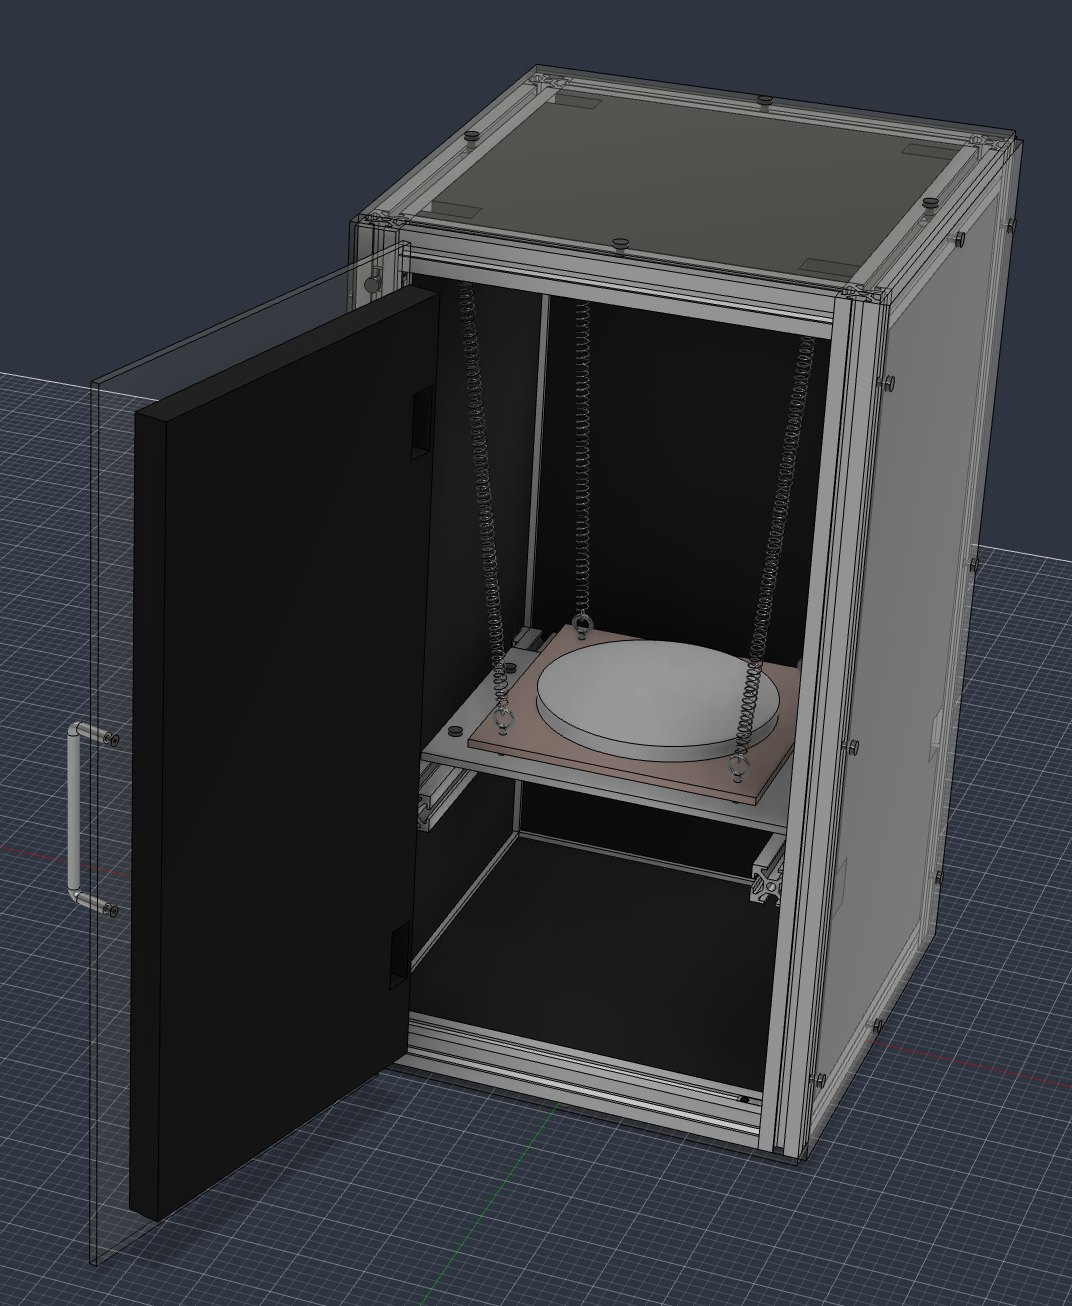
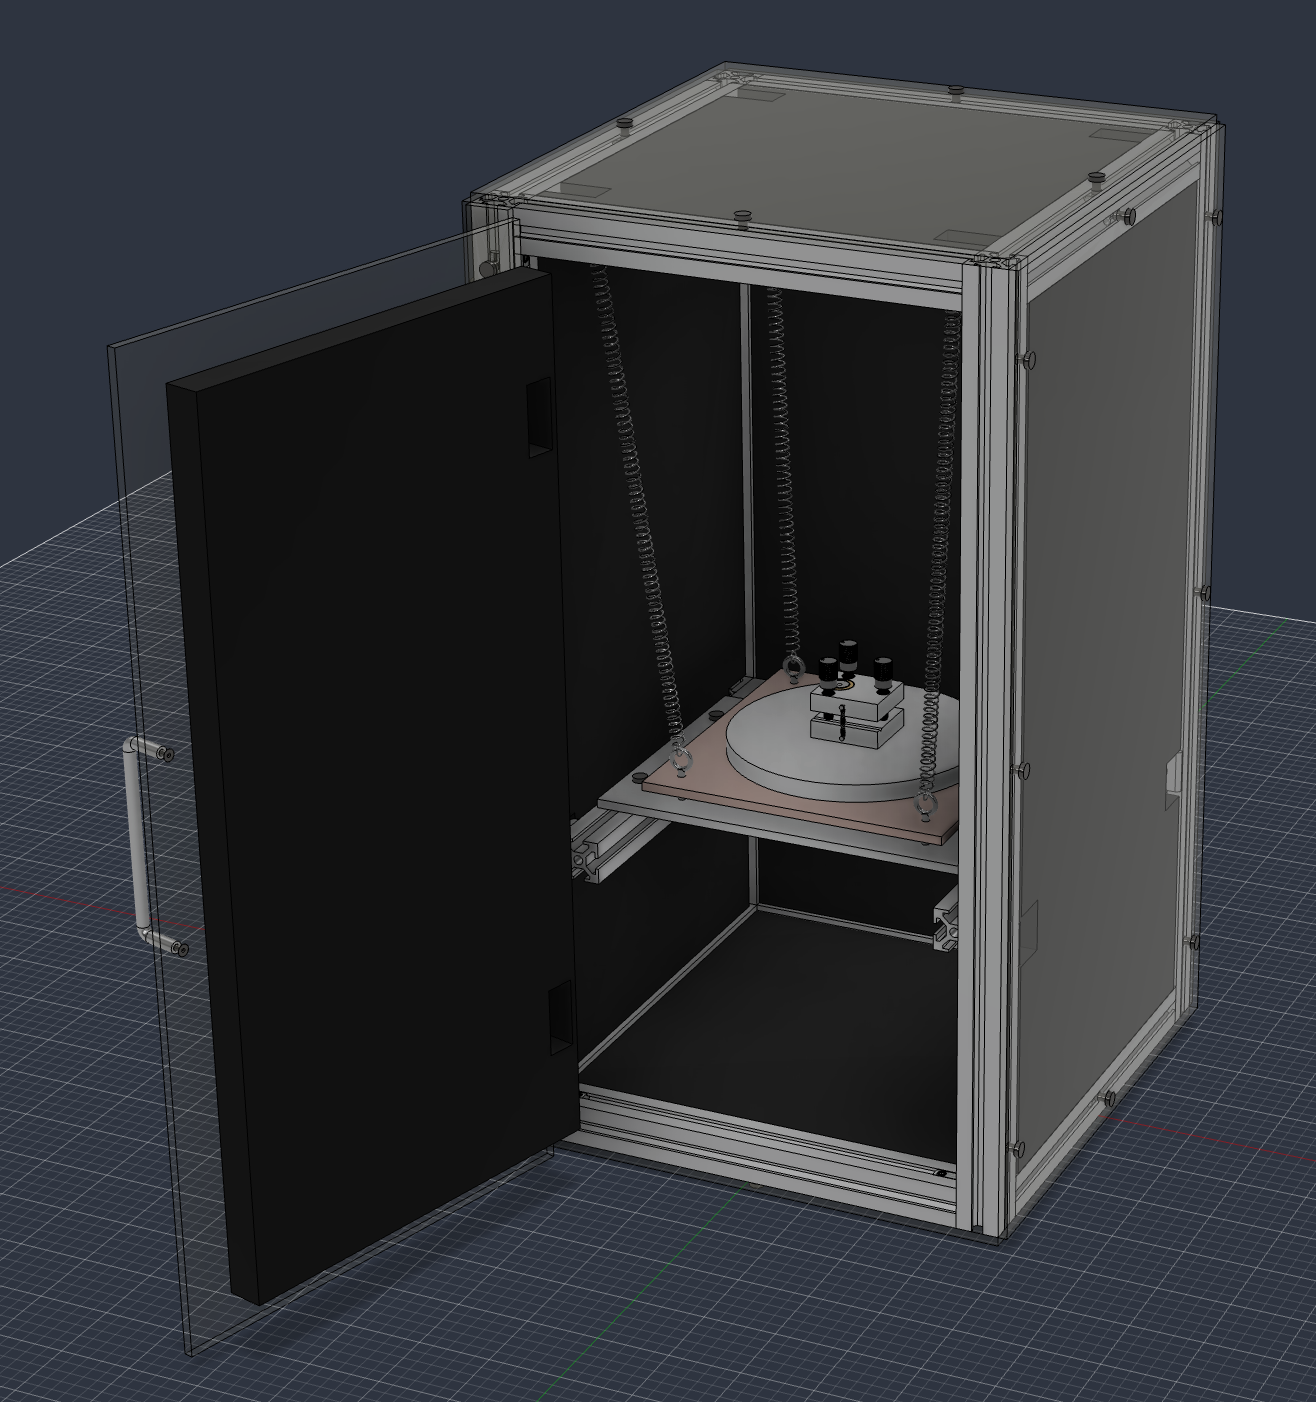
STM: add scan-head close-up render, two-row enclosure gallery
Claude-Session: https://claude.ai/code/session_015rmQsf4ewKKkQv2Y2puF4y

diff --git a/stmproject.html b/stmproject.html
@@ -186,8 +186,9 @@
 <h3 id="10">Mechanical Design Overview</h3>
 <p>The mechanical design is pretty straight forward. Most of the actual design considerations come from trying to limit the vibrations in the scan head. This is done by hanging the scan head from some long springs to limit both horizontal vibrations (pendulum), and vertical vibrations (spring). The scan head and spring are weighted by some steel disks to provide extra weight to the pendulum and spring to dampen these vibrations. On the bottom of this scan head I put an aluminum disk so that I can have some extra eddy current dampening from some neodymium magnets mounted underneath. This will further limit the vibrations. Finally, these disks, and the entire instrument, are mounted on some Viton rubber gaskets to provide further dampening.</p>
 <p>The scan head itself functions via a cheap, common piezoelectric disk. This disk is cut into 4 segments as seen in the photos below. A wire is soldered onto each of these quadrants. By modulating the input to each of these quadrants, we can control the scanning (x-y movement) and depth of scan (z-movement). Additonally, some super fine thread bolts provide some rough z movement to get near to the surface, while the piezoelectric disk does the fin z movement. The scan tip itself is a thin gauge tungsten wire, which, when cut in a very specific way, can become atomically fine at the tip. The sample is mounted on a disk (penny) below this with a bias applied to it by the electronics. The scan head moves down to the surface, and measures the tunneling current.</p>
-<div class="gallery row"><figure style="--ar:.821"><a href="img/portfolio/final_project/stm_frame_1.jpg"><img src="img/portfolio/final_project/stm_frame_1.jpg" alt="CAD model of the aluminum-extrusion STM enclosure with the door open, showing the scan-head platform hanging from four springs" loading="lazy"></a></figure><figure style="--ar:1.549"><a href="img/portfolio/final_project/stm_frame_2.jpg"><img src="img/portfolio/final_project/stm_frame_2.jpg" alt="Close-up of the CAD model showing the spring-suspended platform and its support rails inside the enclosure" loading="lazy"></a></figure><figure style="--ar:.461"><a href="img/portfolio/final_project/stm_frame_3.jpg"><img src="img/portfolio/final_project/stm_frame_3.jpg" alt="The built aluminum-extrusion enclosure lined with acoustic foam panels" loading="lazy"></a></figure></div>
-<p class="caption">Left and center: the CAD model of the enclosure — an aluminum-extrusion frame with a door, and the scan-head platform hanging from four springs inside. Right: the frame built and lined with acoustic foam.</p>
+<div class="gallery row"><figure style="--ar:.821"><a href="img/portfolio/final_project/stm_frame_1.jpg"><img src="img/portfolio/final_project/stm_frame_1.jpg" alt="CAD model of the aluminum-extrusion STM enclosure with the door open, showing the scan-head platform hanging from four springs" loading="lazy"></a></figure><figure style="--ar:1.127"><a href="img/portfolio/final_project/stm_frame_4.jpg"><img src="img/portfolio/final_project/stm_frame_4.jpg" alt="Close-up of the CAD model: the scan head with its three fine-thread approach screws sitting on a steel disk, on a plate hung from four springs by eye bolts" loading="lazy"></a></figure></div>
+<div class="gallery row"><figure style="--ar:1.549"><a href="img/portfolio/final_project/stm_frame_2.jpg"><img src="img/portfolio/final_project/stm_frame_2.jpg" alt="CAD model from the front, showing the spring-suspended platform and its support rails inside the enclosure" loading="lazy"></a></figure><figure style="--ar:.461"><a href="img/portfolio/final_project/stm_frame_3.jpg"><img src="img/portfolio/final_project/stm_frame_3.jpg" alt="The built aluminum-extrusion enclosure lined with acoustic foam panels" loading="lazy"></a></figure></div>
+<p class="caption">Top: the CAD model of the enclosure — an aluminum-extrusion frame with a door — and a close-up of the scan head on its weighted disk, with the plate hanging from four springs. Bottom: the suspended platform from the front, and the frame built and lined with acoustic foam.</p>
 <h3 id="11">Mechanical Design: Scan Head</h3>
 <p>The scan head is composed of two 2" by 2" blocks of machined aluminum, with drilled sockets for the fine thread coarse approach screws and the piezo scanner. The fine thread screws and bushings fit into the top block and are kinematically locked to the bottom aluminum block via the V-groove and two holes. This helps to prevent vibrations of the scan head. The fine thread screws are used for the coarse approach to the sample surface, with 80 threads/inch. This gives roughly 250 um/revolution. The fine screw head on one side will be attached to a 28byj-48 stepper motor geared down to about 2048 steps per revolution. That, along with the lever arm reduction of around 20 (because I am only driving one screw on one side), gives me 250um/2048/20 = 6nm steps!</p>
 <p>Generally, one wants to scan the surface at around the 1nm range. The stepper motor will be used in a woodpecker approach. It will first fully extend the z-piezo to search for the surface (which is easy to recognize becuase the current increases by a factor 0f 10 for every angstrom below 1nm). If it doesn't find the surface, it will retract, step the stepper motor by 1 step, and then extend the z-piezo again to search for the surface. In this way, I can limit the electrode tip from crashing into the surface.</p>
